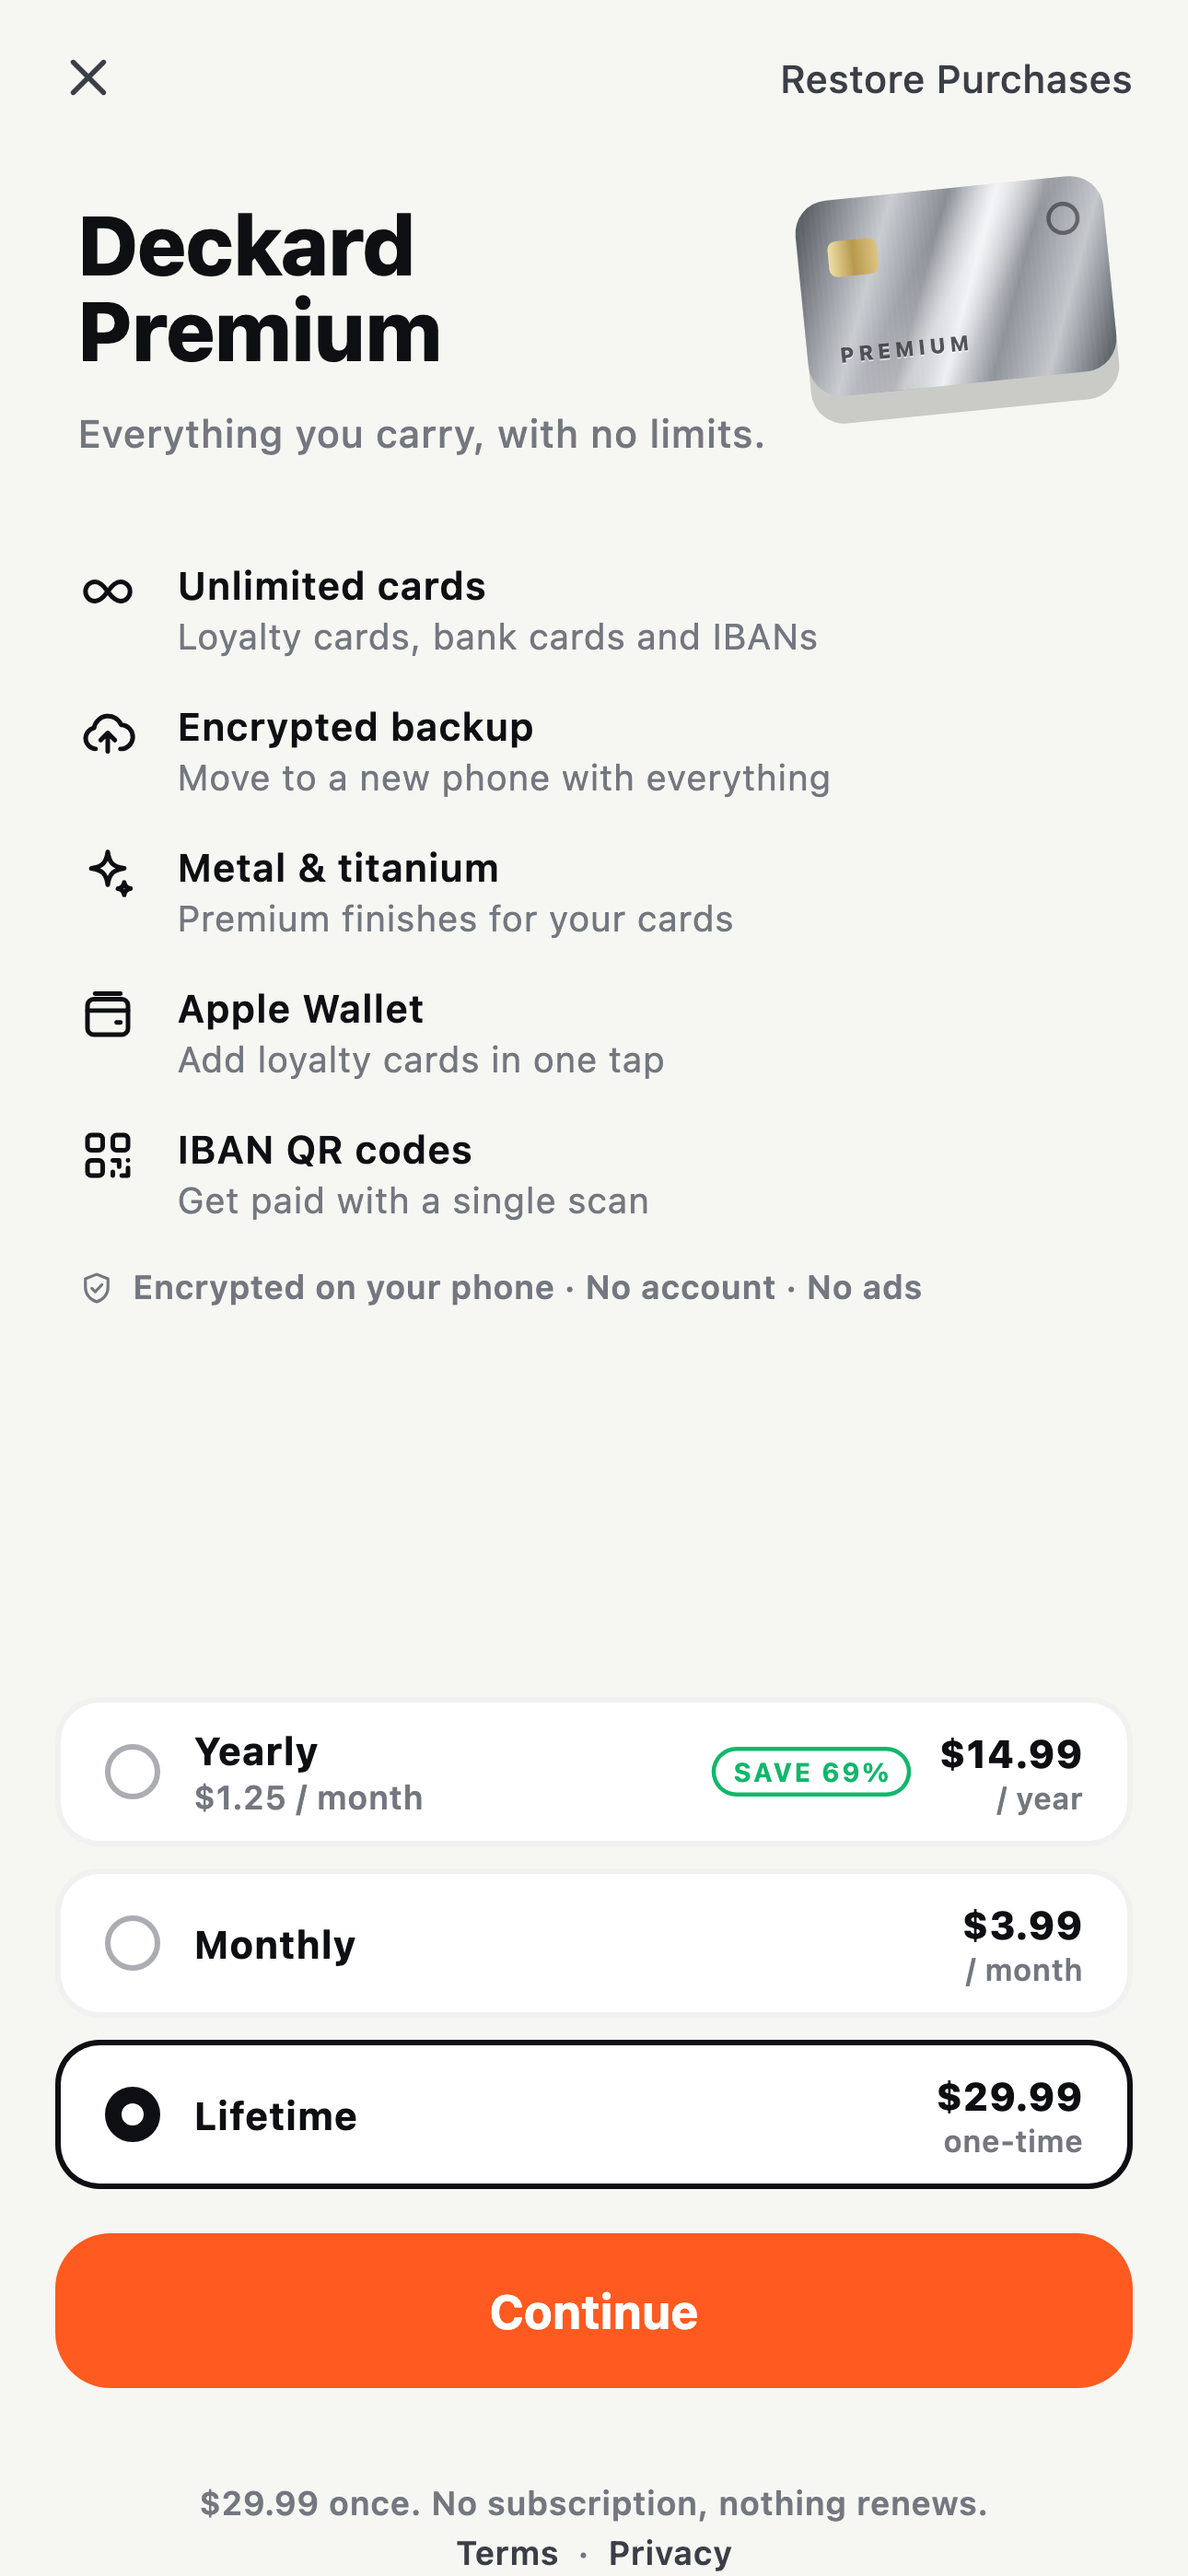
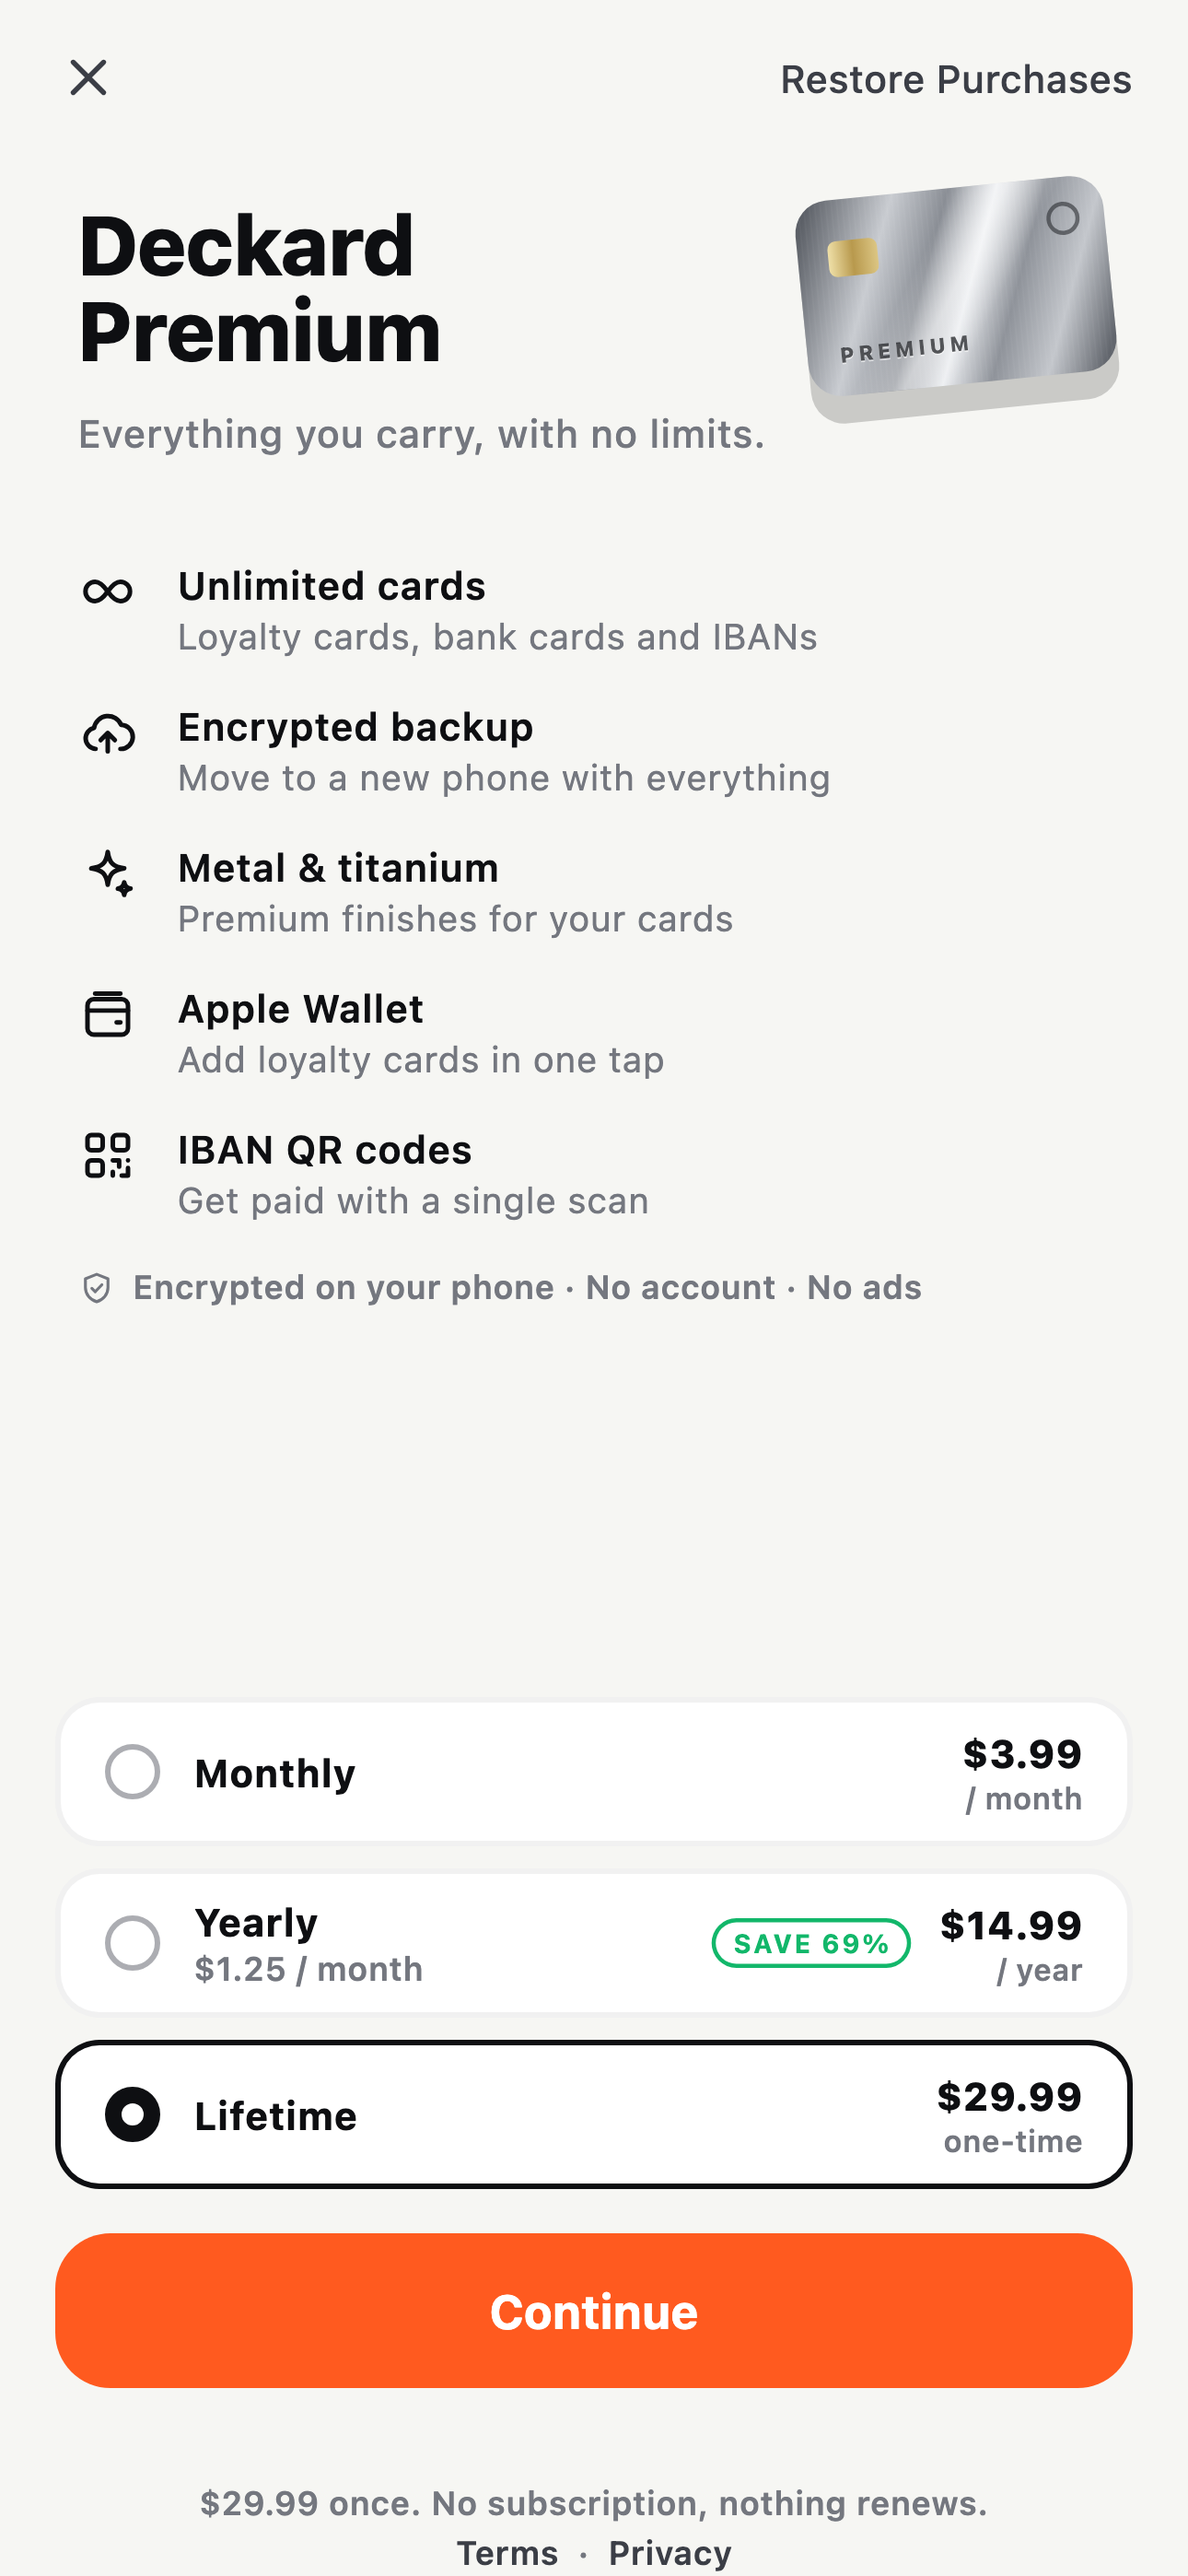
feat(premium): plans in order monthly, yearly, lifetime
Yearly stays the default selection.

diff --git a/lib/feature/premium/premium_page.dart b/lib/feature/premium/premium_page.dart
@@ -108,11 +108,11 @@ class _PremiumPageState extends State<PremiumPage> {
           final yearly = _premiumController.yearlyProduct;
           final lifetime = _premiumController.lifetimeProduct;
 
-          // Yearly (the default), monthly, lifetime. When changing plan,
+          // Monthly, yearly (the default), lifetime. When changing plan,
           // the current one is left out so it can't be bought twice.
           final orderedPlans = <ProductDetails>[
-            if (yearly != null) yearly,
             if (monthly != null) monthly,
+            if (yearly != null) yearly,
             if (lifetime != null) lifetime,
           ].where((p) => !isPremium || p.id != currentPlanId).toList();
           final selected = _selectedProduct != null &&
@@ -705,8 +705,8 @@ class _Trust extends StatelessWidget {
   }
 }
 
-/// The store's plans as rows: yearly first (with its monthly equivalent
-/// and the saving against monthly), then monthly, then lifetime.
+/// The store's plans as rows: monthly, yearly (with its monthly
+/// equivalent and the saving against monthly), then lifetime.
 class _PlanList extends StatelessWidget {
   final List<ProductDetails> plans;
   final String? lifetimeId;
@@ -760,7 +760,7 @@ class _PlanList extends StatelessWidget {
     final c = CwColors.of(context);
     final locale = context.locale;
     int rank(ProductDetails p) =>
-        p.id == yearlyId ? 0 : (p.id == lifetimeId ? 2 : 1);
+        p.id == lifetimeId ? 2 : (p.id == yearlyId ? 1 : 0);
     final ordered = [...plans]..sort((a, b) => rank(a).compareTo(rank(b)));
     return Column(
       children: [

diff --git a/test/feature/premium/premium_page_test.dart b/test/feature/premium/premium_page_test.dart
@@ -49,10 +49,13 @@ void main() {
         final buy = find.byType(FilledButton);
         expect(buy, findsOneWidget);
         expect(tester.getRect(buy).bottom, lessThanOrEqualTo(size.height));
-        // All three plans, the last one (lifetime) above the button.
-        for (final price in ['€14.99', '€3.99', '€29.99']) {
-          expect(find.text(price), findsOneWidget);
-        }
+        // Monthly, yearly, lifetime, top to bottom, above the button.
+        final tops = [
+          for (final price in ['€3.99', '€14.99', '€29.99'])
+            tester.getRect(find.text(price)).top,
+        ];
+        expect(tops[0], lessThan(tops[1]));
+        expect(tops[1], lessThan(tops[2]));
         expect(tester.getRect(find.text('€29.99')).bottom,
             lessThan(tester.getRect(buy).top));
         expect(find.text('cwTerms'.tr()), findsOneWidget);
